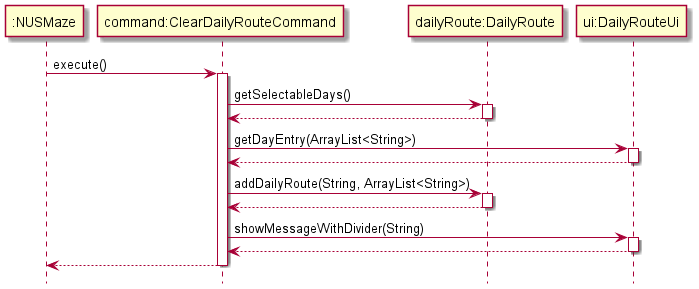
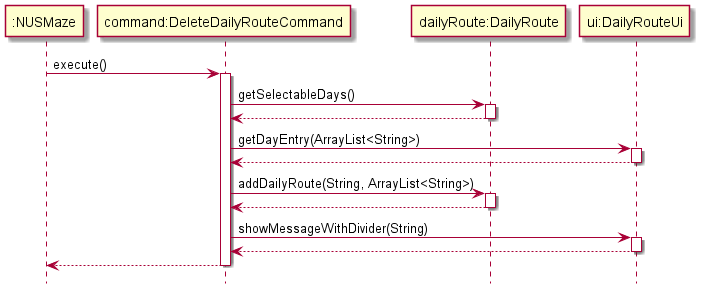
Edited DG ro reflect updated daily route commands. Edited daily route commands to follow delete command keyword Edited Ui prompt to follow standard casing

diff --git a/src/main/java/seedu/duke/command/generalcommand/HelpCommand.java b/src/main/java/seedu/duke/command/generalcommand/HelpCommand.java
@@ -23,21 +23,23 @@ public class HelpCommand extends Command {
             + "\t" + "* adds a schedule for the selected day\n"
             + "9.  show daily route:\n"
             + "\t" + "* shows the generated route for the schedule of the selected day\n"
-            + "10. add note:\n"
+            + "10. delete daily route:\n"
+            + "\t" + "* deletes the stored schedule based on the index number tagged to the day\n"
+            + "11. add note:\n"
             + "\t" + "* adds and tags a note to a particular location\n"
-            + "11. show notes:\n"
+            + "12. show notes:\n"
             + "\t" + "* list notes tagged to the given location\n"
-            + "12. delete note:\n"
+            + "13. delete note:\n"
             + "\t" + "* deletes notes based on index number tagged to the given location\n"
-            + "13. add favourite:\n"
+            + "14. add favourite:\n"
             + "\t" + "* adds a favourite route\n"
-            + "14. show favourite:\n"
+            + "15. show favourite:\n"
             + "\t" + "* lists all favourite routes that were previously created\n"
-            + "15. delete favourite:\n"
+            + "16. delete favourite:\n"
             + "\t" + "* deletes a favourite route based on index number tagged to the route\n"
-            + "16. show venues:\n"
+            + "17. show venues:\n"
             + "\t" + "* lists all possible venues that can be used in the application (excluding user's alias)\n"
-            + "17. bye:\n"
+            + "18. bye:\n"
             + "\t" + "* exits the application";
 
     public HelpCommand() {

diff --git a/src/main/java/seedu/duke/parser/Parser.java b/src/main/java/seedu/duke/parser/Parser.java
@@ -1,6 +1,6 @@
 package seedu.duke.parser;
 
-import seedu.duke.command.dailyroutecommand.ClearDailyRouteCommand;
+import seedu.duke.command.dailyroutecommand.DeleteDailyRouteCommand;
 import seedu.duke.command.generalcommand.ByeCommand;
 import seedu.duke.command.Command;
 import seedu.duke.command.generalcommand.HelpCommand;
@@ -87,8 +87,8 @@ public class Parser {
         case "show daily route":
             command = new ShowDailyRouteCommand();
             break;
-        case "clear daily route":
-            command = new ClearDailyRouteCommand();
+        case "delete daily route":
+            command = new DeleteDailyRouteCommand();
             break;
 
             //note

diff --git a/src/main/java/seedu/duke/command/dailyroutecommand/DeleteDailyRouteCommand.java b/src/main/java/seedu/duke/command/dailyroutecommand/DeleteDailyRouteCommand.java
@@ -1,3 +1,4 @@
+//@@author SimBowen
 package seedu.duke.command.dailyroutecommand;
 
 import seedu.duke.command.Command;
@@ -7,11 +8,11 @@ import seedu.duke.ui.DailyRouteUi;
 
 import java.util.ArrayList;
 
-public class ClearDailyRouteCommand extends Command {
+public class DeleteDailyRouteCommand extends Command {
     protected DailyRouteUi ui;
     private static String MESSAGE_SUCCESS = "Got it! Successfully cleared %s's schedule!";
 
-    public ClearDailyRouteCommand() {
+    public DeleteDailyRouteCommand() {
         this.ui = new DailyRouteUi();
     }
 

diff --git a/src/main/java/seedu/duke/ui/DailyRouteUi.java b/src/main/java/seedu/duke/ui/DailyRouteUi.java
@@ -61,7 +61,7 @@ public class DailyRouteUi extends UiManager {
 
     public int getDayEntry(ArrayList<String> selectableDays) throws InvalidIndexException, EmptyDailyRouteException {
         showListOfDays(selectableDays);
-        showMessage("SELECT ENTRY:");
+        showMessage("Select entry:");
         int dayIndex = getEntryFromUser(selectableDays);
         showMessage(CommonMessage.DIVIDER);
         return dayIndex;

diff --git a/src/main/java/seedu/duke/ui/RouterUi.java b/src/main/java/seedu/duke/ui/RouterUi.java
@@ -29,7 +29,7 @@ public class RouterUi extends UiManager {
         }
         showMessage(
                 CommonMessage.DIVIDER,
-                "SELECT ENTRY TO GO:"
+                "Select entry to go:"
         );
         try {
             int eateryIndex = Integer.parseInt(getUserInput());

diff --git a/docs/DeveloperGuide.md b/docs/DeveloperGuide.md
@@ -207,7 +207,7 @@ Additionally, `DailyRoute` implements the following operations:
 These operations are exposed in the `DailyRoute` class  as `DailyRoute#addDailyRoute()`, `DailyRoute#getDailyRoute(String)`, `DailyRoute#getSelectableDay()`, `DailyRoute#getValidDay()`. <br />
 Given below is an example usage scenario and how the addDailyRoute mechanism behaves at each step. <br />
 Step 1. The user launches the application.<br />
-Step 2. The user executes `add daily route` command. UI will then prompt the user `SELECT ENTRY TO ADD:`  to input a day index. <br />
+Step 2. The user executes `add daily route` command. UI will then prompt the user `Select entry to add:`  to input a day index. <br />
 Step 3. The UI then prompts the user to input the next block that is in the day's schedule.  <br /> The inputted location will be appended to an ArrayList. <br />
 Step 4. Repeat step 3 until the word `END` is input by the user. <br /> 
 Step 5. The inputted day, and the filled Arraylist from step 3 is then passed into the DailyRoute object<br /> This done using the addDailyRoute method from the DailyRoute class. The selectableDay boolean flag for the selected day is also set to true. <br />
@@ -219,9 +219,9 @@ The following image shows the sequence diagram in which the add day command is i
 Given below is an example usage scenario and how the showDailyRoute mechanism behaves at each step.
 
 Step 1. The user launches the application.<br />
-Step 2. The user executes `show daily route` command. UI will then prompt the user `SELECT ENTRY:`  to input a day index. This returns an arraylist of the day's schedule. <br />
-Step 3. The routing algorithm is now performed for each of the blocks in the array list in order. Each execution of the routing algorithm returns a string which is then appended to the previous one. <br />
-Step 4. The String is output through Daily Route Ui <br />
+Step 2. The user executes `show daily route` command. UI will then prompt the user `Select entry:`  to input a day index. This returns an arraylist of the day's schedule. <br />
+Step 3. The routing algorithm is now performed for each of the blocks in the array list in order. Each execution of the routing algorithm returns a string which is then appended to the end of an Array list. <br />
+Step 4. The arraylist of the days schedule, and the arraylist that contains the routes from the routing algorithm are then output through Daily Route Ui <br />
 
 The following image shows the sequence diagram in which the show day command is implemented
 ![img.png](images/showday.png)
@@ -229,11 +229,11 @@ The following image shows the sequence diagram in which the show day command is 
 Given below is an example usage scenario and how the clearDailyRoute mechanism behaves at each step.
 
 Step 1. The user launches the application.<br />
-Step 2. The user executes `clear daily route` command. UI will then show the selectable days if applicable and prompt the user `SELECT ENTRY:`  to input a day index. If there are no days scheduled, the UI will print `"There are no daily routes planned!"` <br />
-Step 3. The `addDailyRoute(day, schedule)` method is then called with the selected day as day, and an empty array list as the schedule. The selectable day boolean flag for the day is set to false in the DailyRoute object and the schedule mapped to the day is cleared.<br />
+Step 2. The user executes `delete daily route` command. UI will then show the selectable days if applicable and prompt the user `Select entry:`  to input a day index. If there are no days scheduled, the UI will print `"There are no daily routes planned!"` <br />
+Step 3. The `addDailyRoute(day, schedule)` method is then called with the selected day as day, and an empty array list as the schedule. The selectable day boolean flag for the day is set to false in the DailyRoute object, and the schedule mapped to the day is cleared.<br />
 Step 4. The String `"Got it! Successfully cleared [DAY]'s schedule!"` is output through Daily Route Ui <br />
 
-The following image shows the sequence diagram in which the clear day command is implemented
+The following image shows the sequence diagram in which the DeleteDailyRoute command is implemented
 ![img.png](images/clearday.png)
 ### 3.3. Finding The Shortest Route Feature
 #### Current Implementation
